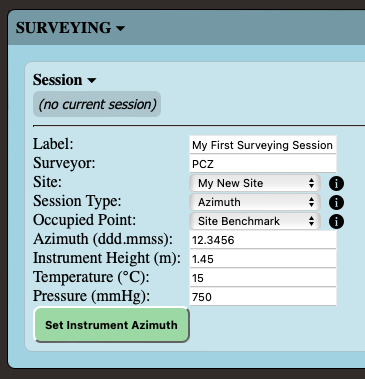
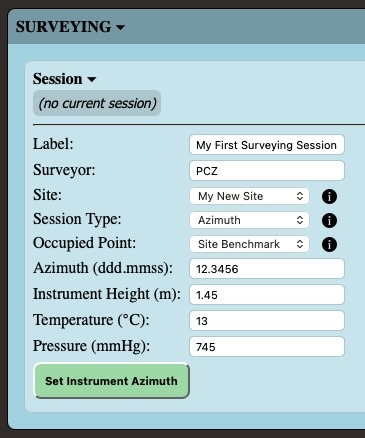
Updated the README.

Changed region(s): [[0.0, 0.0, 1.0, 0.9868]]

diff --git a/README.md b/README.md
@@ -76,6 +76,26 @@ uvicorn api:app --host 0.0.0.0
 
 If you’re testing ShootPoints-Web on the same computer that it’s installed on, access its web interface at [http://localhost:8000/](http://localhost:8000/). To test it from a different device on the same network, open a web browser to [http://<ip.address.of.the.shootpoints.testbed>:8000/](http://<ip.address.of.the.shootpoints.testbed>:8000/).
 
+## Updating
+The following commands will update your ShootPoints-Web installation to the latest version on GitHub.
+
+### If installed on a headless Raspberry Pi configured with the script on the repository Wiki:
+1. Connect the Raspberry Pi to your local network with ethernet and power it on. (Models without an ethernet port will need a USB to ethernet adapter.)
+2. Use ssh to connect to the Raspberry Pi from another computer on the same network. (Window users may need to install [Putty](https://www.putty.org) first.)  
+`ssh shootpoints@shootpoints.local`  
+_Note 1_: depending on your network configuration, you may have to connect to the Raspberry Pi with its IP address instead of shootpoints.local.  
+_Note 2:_ the password will be what you configured when flashing the SSD (probably “shootpoints”).
+3. Run the updater script that was created by the installation script.  
+`update-shootpoints.sh`
+
+### If installed manually:
+```bash
+cd </path/to/>ShootPoints-Web
+git pull --recurse-submodules
+git submodule foreach git switch main
+git submodule foreach git pull
+```
+
 ## Data Management and Categorization
 Following the model developed for SiteMap, ShootPoints-Web categorizes shot data to simplify its visualization and interpretation. The two primary categorizations are groupings (collections of geometrically related points) and class/subclass (archaeological metadata about the shots). All data are saved to a local database which can be downloaded *in toto* or exported as shapefiles via the web interface for easy inclusion in your project’s GIS.
 
@@ -143,10 +163,10 @@ Add additional stations if you’re working with an existing site with multiple 
 6. Choose the session type:
    * **Azimuth**: You will set up on a pre-set station with known coordinates and aim the total station at a known landmark. ShooPoints-Web will set the azimuth on the total station.
      * Enter the azimuth to the known landmark and the height of the total station above the occupied point.
-   * **Backsight**: You will set up on a pre-set station with known coordinates and shoot a backsight to a second pre-set station. ShootPoints-Web will calculate the instrument height and set the azimuth on the total station.
-     * Select the backsight station and enter the height of the prism pole.
-   * **Resection**: You will set up on an arbitrary point and shoot backsights to two pre-set stations with known coordinates. ShootPoints-Web will calculate the coordinates of the occupied point and set the azimuth on the total station.
-     * Choose the two backsight stations and enter the height of the total station above the occupied point.
+   * **Backsight**: You will set up on a pre-set station with known coordinates and shoot a backsight to a second pre-set station. ShootPoints-Web will set the azimuth on the total station and check that the horizontal and vertical variance between the expected distances and the measured distances is within the limits set in the “Set Configs” panel.
+     * Select the backsight station and enter the height of the total station above the occupied point and the height of the prism pole.
+   * **Resection**: You will set up on an arbitrary point and shoot backsights to two pre-set stations with known coordinates. ShootPoints-Web will calculate the coordinates of the occupied point, set the azimuth on the total station, and check that the vertical variance between the expected elevations and the measured elevation is within the limits set in the “Set Configs” panel.
+     * Choose the two backsight stations and enter the height of the total station above the occupied point and the height of the prism pole.
 7. Sight the total station on the prism or landmark and click the “Set Instrument Azimuth,” “Shoot Backsight,” or “Shoot Left Backsight” button. (The button label will change, depending on the session type.)  
 ![Start New Session with Azimuth form](img/NewSessionAzimuth.jpg)  
 ![Start New Session with Backsight form](img/NewSessionBacksight.jpg)  

diff --git a/CHANGELOG.md b/CHANGELOG.md
@@ -5,7 +5,14 @@ and this project adheres to [Semantic Versioning](https://semver.org/spec/v2.0.0
 
 <!-- (Added, Changed, Deprecated, Removed, Fixed, Security) -->
 
-## [1.9.3]
+## [in progress]
+
+### Changed
+- Added updating instructions to the README.
+- Updated the README to reflect UI changes.
+- Added dates to the 1.9.x entries in the CHANGELOG.
+
+## [1.9.3] - 2026-05-20
 
 ### Fixed
 - Squashed a bug that could cause Windows to fail to successfully open the serial port.
@@ -15,12 +22,12 @@ and this project adheres to [Semantic Versioning](https://semver.org/spec/v2.0.0
 - Added reminders to the VERSION file to update the appropriate matching values in index.html and blank_database.sql. This only affects project maintenance, not operation.
 - Tidied up what gets printed to the terminal console when the application is loaded. This doesn’t affect the program’s function in any way, but makes testing and debugging easier to read.
 
-## [1.9.2]
+## [1.9.2] - 2026-05-20
 
 ### Fixed
 - Replaced the curly quotes in the comments of the blank_database.sql file with straight quotes because they were causing fresh installs on Windows 11 to fail due to a character encoding error.
 
-## [1.9.1]
+## [1.9.1] - 2026-05-07
 
 ### Changed
 - Save the elevation of new stations created by the resection routine to three decimal places.
@@ -28,7 +35,7 @@ and this project adheres to [Semantic Versioning](https://semver.org/spec/v2.0.0
 ### Fixed
 - Vertical variance for the left and right backsight stations during a resection is now compared against the vertical tolerance instead of the horizontal tolerance.
 
-## [1.9.0]
+## [1.9.0] - 2026-05-07
 
 ### Changed
 - Configs now take separate values for horizontal vs. vertical backsight error tolerance.
